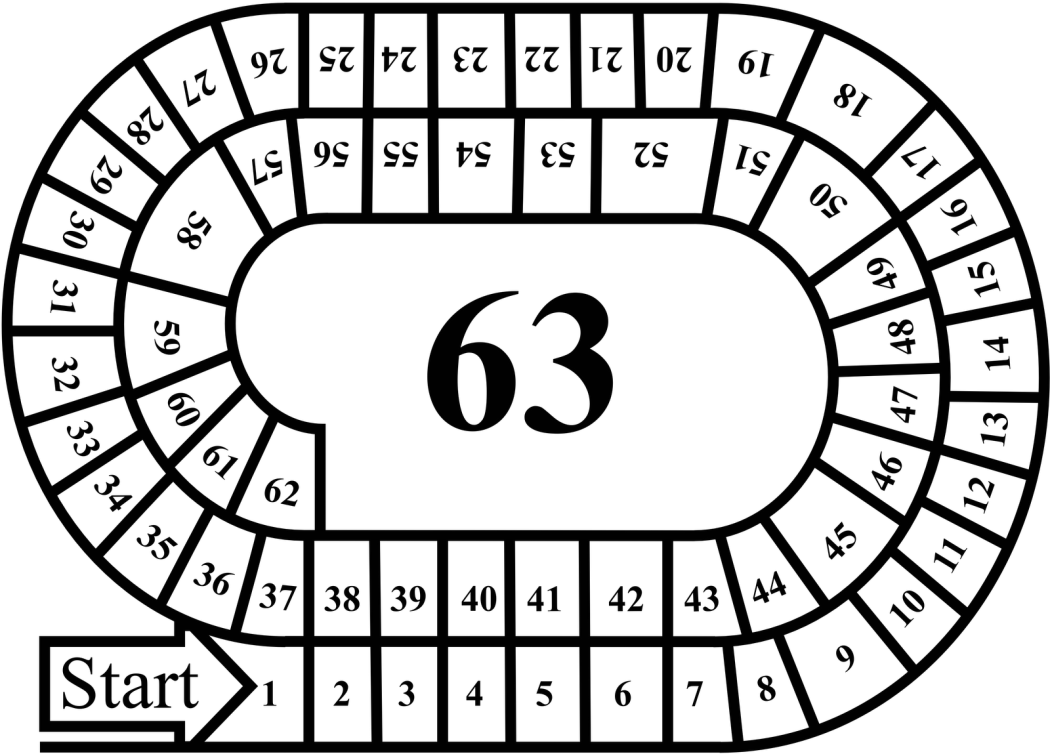
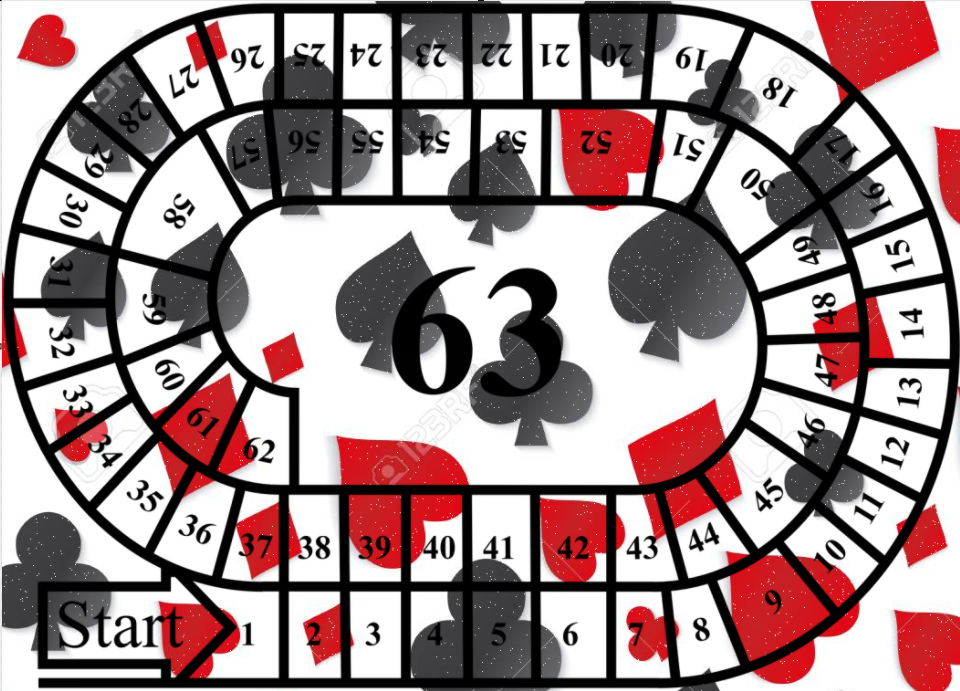
achtergrond gewijzigd en pionnen

diff --git a/ganzenbord.py b/ganzenbord.py
@@ -58,6 +58,9 @@ dobbelsteen_afbeeldingen = [
     pygame.image.load("dice6.png")
 ]
 
+pion1 = pygame.image.load("pion1.png")
+pion2 = pygame.image.load("pion2.png")
+
 window_size = [1200, 800] #afmetingen van het spelscherm instellen
 screen = pygame.display.set_mode(window_size) #spelscherm maken met de juiste afmetingen in "screen"
 
@@ -100,11 +103,11 @@ def update_screen(situatie): #functie: scherm updaten
     speler0_x = vakjes[pion_posities[0]][0] #x coordinaat van speler 0
     speler0_y = vakjes[pion_posities[0]][1] #y coordinaat van speler 0
     kleur_speler0 = (255, 0, 0) #kleur van speler 0 (rood)
-    pygame.draw.circle(screen, kleur_speler0, (speler0_x, speler0_y), 10) #tekent pion van speler 0
+    screen.blit(pion1, (speler0_x, speler0_y))  #tekent pion van speler 0
     speler1_x = vakjes[pion_posities[1]][0] +5 #x coordinaat van speler 1
     speler1_y = vakjes[pion_posities[1]][1] +5 #y coordinaat van speler 1
     kleur_speler1 = (0, 0, 255) #kleur van speler 1 (blauw)
-    pygame.draw.circle(screen, kleur_speler1, (speler1_x, speler1_y), 10) #tekent pion van speler 1 
+    screen.blit(pion2, (speler1_x, speler1_y)) #tekent pion van speler 1 
 
     myfont = pygame.font.SysFont(None, 30) #maakt een font object aan voor de tekst
 
